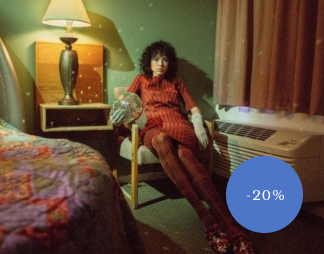
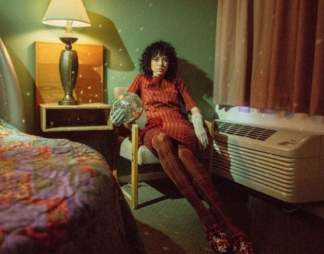
end

Changed region(s): [[0.679, 0.6063, 0.9568, 0.937]]

diff --git a/css/main.min.css b/css/main.min.css
@@ -1,1 +1,1 @@
-/*! normalize.css v8.0.1 | MIT License | github.com/necolas/normalize.css */html{line-height:1.15;-webkit-text-size-adjust:100%}body{margin:0}main{display:block}h1{font-size:2em;margin:.67em 0}hr{box-sizing:content-box;height:0;overflow:visible}pre{font-family:monospace,monospace;font-size:1em}a{background-color:rgba(0,0,0,0)}abbr[title]{border-bottom:none;text-decoration:underline;-webkit-text-decoration:underline dotted;text-decoration:underline dotted}b,strong{font-weight:bolder}code,kbd,samp{font-family:monospace,monospace;font-size:1em}small{font-size:80%}sub,sup{font-size:75%;line-height:0;position:relative;vertical-align:baseline}sub{bottom:-0.25em}sup{top:-0.5em}img{border-style:none}button,input,optgroup,select,textarea{font-family:inherit;font-size:100%;line-height:1.15;margin:0}button,input{overflow:visible}button,select{text-transform:none}button,[type=button],[type=reset],[type=submit]{-webkit-appearance:button}button::-moz-focus-inner,[type=button]::-moz-focus-inner,[type=reset]::-moz-focus-inner,[type=submit]::-moz-focus-inner{border-style:none;padding:0}button:-moz-focusring,[type=button]:-moz-focusring,[type=reset]:-moz-focusring,[type=submit]:-moz-focusring{outline:1px dotted ButtonText}fieldset{padding:.35em .75em .625em}legend{box-sizing:border-box;color:inherit;display:table;max-width:100%;padding:0;white-space:normal}progress{vertical-align:baseline}textarea{overflow:auto}[type=checkbox],[type=radio]{box-sizing:border-box;padding:0}[type=number]::-webkit-inner-spin-button,[type=number]::-webkit-outer-spin-button{height:auto}[type=search]{-webkit-appearance:textfield;outline-offset:-2px}[type=search]::-webkit-search-decoration{-webkit-appearance:none}::-webkit-file-upload-button{-webkit-appearance:button;font:inherit}details{display:block}summary{display:list-item}template{display:none}[hidden]{display:none}@font-face{font-family:"Orchidea pro";src:url("../font/Mint Type - Orchidea Pro Medium.otf")}@font-face{font-family:"Circle";src:url("../font/Mint Type - Orchidea Pro Medium.otf")}html{box-sizing:border-box;height:100%;scroll-behavior:smooth}*,*::before,*::after{box-sizing:inherit}body{display:flex;flex-direction:column;height:100%;padding:0;margin:0;overflow-x:hidden;font-family:"Orchidea pro";background-color:#fff}img{max-width:100%;height:auto}.container{max-width:1440px;width:100%;margin:0 auto}ul{list-style:none}a{text-decoration:none}.visually-hidden{position:absolute;width:1px;height:1px;margin:-1px;border:0;padding:0;clip:rect(0 0 0 0);overflow:hidden}.mollen__big-wrapper{background-image:url("/img/monnel-hero.png");background-repeat:no-repeat;background-size:cover;background-position:center center;width:100vw;height:1031px}.mollen__header-wrapper{display:flex;justify-content:space-between;align-items:center;padding:16px 40px}.mollen__header-btn{border:none;background-color:rgba(0,0,0,0);color:#fff;font-size:35px;cursor:pointer}.mollen__header-logo{margin-left:40px}.mollen__header-link{font-weight:500;font-size:14px;line-height:22px;letter-spacing:.1em;text-transform:uppercase;color:#72716e;margin-left:40px;transition:color .2s ease}.mollen__header-link:hover{color:#fff}.mollen__header-linkss{color:#fff;transition:color .2s ease}.mollen__header-linkss:hover{color:#72716e}.mollen__header-constructor{position:relative;top:5px;right:6px}.mollen__header-search{font-size:18px;position:relative;top:3px}.mollen__header-icons{display:flex;align-items:center}.mollen__header-carts{margin-left:122px}.mollen__header-carts-btn{border:none;background-color:rgba(0,0,0,0);cursor:pointer}.mollen__header-carts-spn{display:inline-block;width:40px;height:40px;border-radius:50%;text-align:center;padding-top:9px;background-color:#4e76c6}@media screen and (max-width: 895px){.mollen__header-link{margin-left:20px;font-size:10px}.mollen__header-logo{margin-left:20px}.mollen__header-carts{margin-left:50px}}.mollen__hero{margin-top:163px;margin-bottom:150px}.mollen__hero-wrapper{display:flex;justify-content:center;margin:0 auto;max-width:900px;width:100%;height:620px;position:relative}.mollen__hero-item{display:flex;position:absolute}.mollen__hero-item:nth-child(1){left:50px}.mollen__hero-item:nth-child(2){top:120px;right:430px}.mollen__hero-item:nth-child(3){top:300px;left:20px}.mollen__hero-item:nth-child(4){bottom:150px;right:0px}.mollen__hero-item:nth-child(5){bottom:0px;left:0px}.mollen__hero-round{width:60px;height:60px;background:rgba(236,234,231,.6980392157);opacity:.2;border-radius:60px;text-align:center;padding-top:20px}.mollen__hero-spn{display:inline-block;width:8px;height:8px;border-radius:50%;background-color:#fff}.mollen__hero-text{font-weight:500;font-size:20px;line-height:28px;letter-spacing:.1em;text-transform:uppercase;color:#fff;cursor:pointer;margin-left:25px;transition:color .2s ease}.mollen__hero-text:hover{color:rgba(236,234,231,.3098039216)}.hero__mollen-imgs{margin-top:80px;display:flex;justify-content:center}.hero__mollen-img{-webkit-animation-name:rounds;animation-name:rounds;-webkit-animation-duration:2s;animation-duration:2s;-webkit-animation-iteration-count:infinite;animation-iteration-count:infinite}@-webkit-keyframes rounds{0%{transform:rotate(50deg)}50%{transform:rotate(250deg)}100%{transform:rotate(50deg)}}@keyframes rounds{0%{transform:rotate(50deg)}50%{transform:rotate(250deg)}100%{transform:rotate(50deg)}}.mollen__menu{max-width:1440px;width:100%;height:1031px;background-color:#fff;transform:translateY(-2138px);border-radius:20px}.mollen__menu-wrapper{display:flex}.mollen__menu-aside{width:20%;border-right:1px solid #eceae7;height:1031px}.mollen__menu-close{border:none;background-color:rgba(0,0,0,0);font-size:40px;margin-left:27px;margin-top:23px;margin-bottom:121px;cursor:pointer}.mollen__menu-text{font-weight:300;font-size:18px;line-height:24px;color:#72716e;cursor:pointer;margin-left:42px;margin-bottom:62px;transition:color .2s ease}.mollen__menu-text:hover{color:#1e1e1e}.mollen__menu-item{margin-bottom:26px}.mollen__menu-link{font-weight:500;font-size:14px;line-height:22px;letter-spacing:.1em;text-transform:uppercase;color:#1e1e1e;transition:color .2s ease}.mollen__menu-link:hover{color:#72716e}.mollen__menu-lists{display:flex;position:relative;top:390px}.mollen__menu-items{margin-left:15px}.mollen__menu-items:nth-child(1){margin-left:0}.mollen__menu-links{color:#4e76c6}.mollen__main{width:80%;position:relative}.mollen__main-inp{width:100%;padding:20px 0;padding-left:20px;border:1px solid #eceae7;outline:none}.mollen__main-search{font-size:25px;right:20px;top:20px;cursor:pointer;position:absolute}.mollen__main-wrapper{margin-left:210px;margin-top:145px}.mollen__main-text{font-weight:300;font-size:18px;line-height:24px;color:#72716e;margin-left:35px;margin-bottom:50px}.mollen__main-item{margin-bottom:26px}.mollen__main-link{font-weight:500;font-size:40px;line-height:52px;letter-spacing:.08em;text-transform:uppercase;color:#1e1e1e;transition:color .2s ease}.mollen__main-link:hover{color:#4e76c6}.mollen__main-phones{margin-left:245px;position:relative;top:360px;display:flex;align-items:center;justify-content:space-between}.mollen__main-phone{font-weight:500;font-size:14px;line-height:22px;letter-spacing:.1em;text-transform:uppercase;color:#1e1e1e;transition:color .2s ease}.mollen__main-phone:hover{color:#4e76c6}.mollen__main-call{font-weight:500;font-size:14px;line-height:22px;letter-spacing:.1em;text-transform:uppercase;color:#4e76c6;transition:color .2s ease;cursor:pointer;margin-left:37px}.mollen__main-call:hover{color:#1e1e1e}.mollen__main-btn{border:none;background-color:#4e76c6;width:60px;height:60px;border-radius:50%;margin-right:60px;cursor:pointer}.show-open{transform:translateY(-987px);transition:all .4s ease}@media screen and (max-width: 1138px){.mollen__menu-lists{top:370px}}@media screen and (max-width: 1124px){.mollen__menu-lists{top:350px}}@media screen and (max-width: 1068px){.mollen__menu-lists{right:20px}}@media screen and (max-width: 1003px){.mollen__menu-lists{top:390px;right:30px}.mollen__menu-link{font-size:10px}.mollen__menu-items{margin-left:10px}}@media screen and (max-width: 916px){.mollen__main-link{font-size:30px}.mollen__main-phones{margin-left:100px}}@media screen and (max-width: 871px){.mollen__menu-lists{top:360px}}@media screen and (max-width: 862px){.mollen__menu-lists{top:370px}}@media screen and (max-width: 779px){.mollen__menu-lists{right:35px;top:350px}.mollen__menu-items{margin-left:5px}}@media screen and (max-width: 768px){.mollen__menu-lists{right:35px;top:320px}.mollen__main-link{font-size:25px}}.mollen__dataimg{margin-top:110px}.mollen__dataimg-list{overflow-x:hidden;margin-right:0px}.mollen__dataimg-item{cursor:pointer}.mollen__dataimg-img{-o-object-fit:cover;object-fit:cover}.mollen__dataimg-text{font-weight:500;font-size:14px;line-height:22px;letter-spacing:.1em;text-transform:uppercase;color:#1e1e1e}.mollen__dataimg-visibl{display:none}.mollen__complect{margin-top:242px}.mollen__complect-block{display:flex;justify-content:space-between}.mollen__complect-blocks{position:relative;justify-content:space-between;bottom:48px;right:2px;background:#f5f3f0}.mollen__complect-imgs{position:relative}.mollen__complect-img{max-width:719px;width:100%;height:884px}.mollen__complect-text{position:absolute;top:40px;left:40px;font-weight:500;max-width:477px;width:100%;font-size:40px;line-height:52px;letter-spacing:.08em;text-transform:uppercase;color:#fffffb}.mollen__complect-btn{border:none;position:absolute;left:40px;bottom:80px;padding:21px 30px 18px 60px;background-color:#fff;font-weight:500;font-size:14px;line-height:22px;letter-spacing:.1em;text-transform:uppercase;color:#222730;cursor:pointer;border-radius:60px;transition:all .2s ease}.mollen__complect-btn:hover{background-color:#222730;color:#fff}.mollen__complect-spn{width:9px;height:9px;border-radius:50%;display:inline-block;position:relative;right:20px;background-color:#bc5e53}.mollen__complect-lists{max-width:720px;width:100%}.mollen__complect-list{padding:0;display:flex}.mollen__complect-inner{display:flex;justify-content:space-between}.mollen__complect-item{max-width:360px;width:100%;position:relative;bottom:16px;padding:37px;border:1px solid #eceae7}.mollen__complect-items{position:relative;bottom:32px}.mollen__complect-texts{font-weight:300;font-size:14px;line-height:16px;color:#72716e}.mollen__complect-mebel{max-width:360px;width:100%;height:164px;-o-object-fit:contain;object-fit:contain}.mollen__complect-two{font-weight:500;font-size:14px;line-height:22px;text-align:center;letter-spacing:.1em;text-transform:uppercase;color:#1e1e1e}.mollen__complect-subtext{font-weight:300;font-size:14px;line-height:16px;text-align:center;color:#72716e}.mollen__complect-price{font-weight:500;font-size:14px;line-height:22px;text-align:center;letter-spacing:.1em;text-transform:uppercase;color:#4e76c6}.mollen__complect-girlimg{position:relative;bottom:80px;margin:0 auto;-o-object-fit:cover;object-fit:cover;display:flex;justify-content:center;-webkit-animation-name:rounds;animation-name:rounds;-webkit-animation-duration:3s;animation-duration:3s;-webkit-animation-iteration-count:infinite;animation-iteration-count:infinite}.mollen__complect-girlsimg{max-width:719px;width:100%;height:884px}@-webkit-keyframes roundss{0%{transform:rotate(50deg)}50%{transform:rotate(250deg)}100%{transform:rotate(50deg)}}@keyframes roundss{0%{transform:rotate(50deg)}50%{transform:rotate(250deg)}100%{transform:rotate(50deg)}}.catalog__title{font-size:40px;line-height:52px;letter-spacing:.08em;text-transform:uppercase;color:#1e1e1e;margin-top:40px;margin-left:40px;margin-bottom:110px}.catalog__list{display:flex}.catalog__item{margin-left:206px;display:flex;align-items:center}.catalog__item::before{content:"";display:inline-block;width:8px;height:8px;background-color:#1e1e1e;border-radius:50%;margin-right:15px}.catalog__item:nth-child(1){margin-left:0}.catalog__link{font-weight:500;font-size:14px;line-height:22px;text-align:center;letter-spacing:.1em;text-transform:uppercase;color:#1e1e1e}.catalog__des{margin-top:440px;display:flex;padding-left:40px}.catalog__text{font-family:"Circle";max-width:274px;width:100%;font-weight:300;font-size:14px;line-height:16px;color:#1e1e1e}.catalog__texts{margin-left:30px;margin-right:10px}@media screen and (max-width: 1345px){.catalog__item{margin-left:106px}}@media screen and (max-width: 1272px){.catalog__des{margin-top:420px}}@media screen and (max-width: 1157px){.catalog__des{margin-top:390px}}@media screen and (max-width: 996px){.catalog__des{margin-top:370px}}@media screen and (max-width: 967px){.mollen__complect-text{font-size:30px}.mollen__complect-btn{bottom:120px}.mollen__complect-item{padding:36px}}@media screen and (max-width: 983px){.mollen__complect-item{padding:30px}}@media screen and (max-width: 962px){.mollen__complect-item{padding:30px}}@media screen and (max-width: 933px){.mollen__complect-item{padding:26px}}@media screen and (max-width: 900px){.mollen__complect-block{flex-direction:column;margin:0 auto}.mollen__complect-img{width:718px;margin:0 auto;display:flex;justify-content:center}.mollen__complect-text{left:120px}.mollen__complect-btn{left:130px}.mollen__complect-girlsimg{width:800px;margin:0 auto;display:flex;justify-content:center}.mollen__complect-lists{margin:0 auto}.mollen__complect-item{padding:26px}.catalog__title{text-align:center}.catalog__list{margin:0 auto;justify-content:center}.catalog__item{margin-left:80px}.catalog__des{text-align:center;margin:0 auto;justify-content:center}}@media screen and (max-width: 800px){.catalog__item{margin-left:50px}}@media screen and (max-width: 768px){.catalog__des{margin-top:200px}}.mollen__imgs{position:relative;bottom:62px;margin-bottom:149px}.mollen__imgs-list{margin-right:10px}.mollen__imgs-visbl{display:none}@media screen and (max-width: 991px){.mollen__imgs-item{margin-bottom:16px}}.footer{border-top:1px solid #eceae7;padding-top:60px;padding-left:40px}.footer__wrapper{display:flex;justify-content:space-between;overflow-x:hidden}.footer__logo{margin-bottom:76px;margin-top:18px}.footer__text{font-weight:300;font-size:18px;line-height:24px;color:#72716e}.footer__item{margin-bottom:22px}.footer__link{font-weight:300;font-size:18px;line-height:24px;color:#72716e;transition:color .2s ease}.footer__link:hover{color:#4e76c6}.footer__social-list{display:flex;position:relative;right:20px;top:61px}.footer__social-phone{font-weight:500;font-size:20px;line-height:28px;text-align:right;letter-spacing:.1em;text-transform:uppercase;color:#1e1e1e}.footer__social-call{font-weight:300;font-size:18px;line-height:24px;color:#4e76c6;margin-left:40px}@media screen and (max-width: 866px){.footer__logo{width:90px;height:53px;margin-bottom:50px;margin-top:5px}.footer__text{font-size:16px}.footer__link{font-size:16px}.footer__social-phone{font-size:16px}.footer__social-call{font-size:14px;margin-left:30px}}/*# sourceMappingURL=main.min.css.map */
+/*! normalize.css v8.0.1 | MIT License | github.com/necolas/normalize.css */html{line-height:1.15;-webkit-text-size-adjust:100%}body{margin:0}main{display:block}h1{font-size:2em;margin:.67em 0}hr{box-sizing:content-box;height:0;overflow:visible}pre{font-family:monospace,monospace;font-size:1em}a{background-color:rgba(0,0,0,0)}abbr[title]{border-bottom:none;text-decoration:underline;-webkit-text-decoration:underline dotted;text-decoration:underline dotted}b,strong{font-weight:bolder}code,kbd,samp{font-family:monospace,monospace;font-size:1em}small{font-size:80%}sub,sup{font-size:75%;line-height:0;position:relative;vertical-align:baseline}sub{bottom:-0.25em}sup{top:-0.5em}img{border-style:none}button,input,optgroup,select,textarea{font-family:inherit;font-size:100%;line-height:1.15;margin:0}button,input{overflow:visible}button,select{text-transform:none}button,[type=button],[type=reset],[type=submit]{-webkit-appearance:button}button::-moz-focus-inner,[type=button]::-moz-focus-inner,[type=reset]::-moz-focus-inner,[type=submit]::-moz-focus-inner{border-style:none;padding:0}button:-moz-focusring,[type=button]:-moz-focusring,[type=reset]:-moz-focusring,[type=submit]:-moz-focusring{outline:1px dotted ButtonText}fieldset{padding:.35em .75em .625em}legend{box-sizing:border-box;color:inherit;display:table;max-width:100%;padding:0;white-space:normal}progress{vertical-align:baseline}textarea{overflow:auto}[type=checkbox],[type=radio]{box-sizing:border-box;padding:0}[type=number]::-webkit-inner-spin-button,[type=number]::-webkit-outer-spin-button{height:auto}[type=search]{-webkit-appearance:textfield;outline-offset:-2px}[type=search]::-webkit-search-decoration{-webkit-appearance:none}::-webkit-file-upload-button{-webkit-appearance:button;font:inherit}details{display:block}summary{display:list-item}template{display:none}[hidden]{display:none}@font-face{font-family:"Orchidea pro";src:url("../font/Mint Type - Orchidea Pro Medium.otf")}@font-face{font-family:"Circle";src:url("../font/Mint Type - Orchidea Pro Medium.otf")}html{box-sizing:border-box;height:100%;scroll-behavior:smooth}*,*::before,*::after{box-sizing:inherit}body{display:flex;flex-direction:column;height:100%;padding:0;margin:0;overflow-x:hidden;font-family:"Orchidea pro";background-color:#fff}img{max-width:100%;height:auto}.container{max-width:1440px;width:100%;margin:0 auto}ul{list-style:none}a{text-decoration:none}.visually-hidden{position:absolute;width:1px;height:1px;margin:-1px;border:0;padding:0;clip:rect(0 0 0 0);overflow:hidden}.mollen__big-wrapper{background-image:url("/img/monnel-hero.png");background-repeat:no-repeat;background-size:cover;background-position:center center;width:100vw;height:1031px}.mollen__header-wrapper{display:flex;justify-content:space-between;align-items:center;padding:16px 40px}.mollen__header-btn{border:none;background-color:rgba(0,0,0,0);color:#fff;font-size:35px;cursor:pointer;position:relative;bottom:5px}.mollen__header-logo{margin-left:40px}.mollen__header-link{font-weight:500;font-size:14px;line-height:22px;letter-spacing:.1em;text-transform:uppercase;color:#72716e;margin-left:40px;transition:color .2s ease}.mollen__header-link:hover{color:#fff}.mollen__header-linkss{color:#fff;transition:color .2s ease}.mollen__header-linkss:hover{color:#72716e}.mollen__header-constructor{position:relative;top:5px;right:6px}.mollen__header-search{font-size:18px;position:relative;top:3px}.mollen__header-icons{display:flex;align-items:center}.mollen__header-carts{margin-left:122px}.mollen__header-carts-btn{border:none;background-color:rgba(0,0,0,0);cursor:pointer}.mollen__header-carts-spn{display:inline-block;width:40px;height:40px;border-radius:50%;text-align:center;padding-top:9px;background-color:#4e76c6}@media screen and (max-width: 895px){.mollen__header-link{margin-left:20px;font-size:10px}.mollen__header-logo{margin-left:20px}.mollen__header-carts{margin-left:50px}}.mollen__hero{margin-top:163px;margin-bottom:150px}.mollen__hero-wrapper{display:flex;justify-content:center;margin:0 auto;max-width:900px;width:100%;height:620px;position:relative}.mollen__hero-item{display:flex;position:absolute}.mollen__hero-item:nth-child(1){left:50px}.mollen__hero-item:nth-child(2){top:120px;right:430px}.mollen__hero-item:nth-child(3){top:300px;left:20px}.mollen__hero-item:nth-child(4){bottom:150px;right:0px}.mollen__hero-item:nth-child(5){bottom:0px;left:0px}.mollen__hero-round{width:60px;height:60px;background:rgba(236,234,231,.6980392157);opacity:.2;border-radius:60px;text-align:center;padding-top:20px}.mollen__hero-spn{display:inline-block;width:8px;height:8px;border-radius:50%;background-color:#fff}.mollen__hero-text{font-weight:500;font-size:20px;line-height:28px;letter-spacing:.1em;text-transform:uppercase;color:#fff;cursor:pointer;margin-left:25px;transition:color .2s ease}.mollen__hero-text:hover{color:rgba(236,234,231,.3098039216)}.hero__mollen-imgs{margin-top:80px;display:flex;justify-content:center}.hero__mollen-img{-webkit-animation-name:rounds;animation-name:rounds;-webkit-animation-duration:2s;animation-duration:2s;-webkit-animation-iteration-count:infinite;animation-iteration-count:infinite}@-webkit-keyframes rounds{0%{transform:rotate(50deg)}50%{transform:rotate(250deg)}100%{transform:rotate(50deg)}}@keyframes rounds{0%{transform:rotate(50deg)}50%{transform:rotate(250deg)}100%{transform:rotate(50deg)}}.mollen__menu{max-width:1440px;width:100%;height:1031px;background-color:#fff;transform:translateY(-2138px);border-radius:20px}.mollen__menu-wrapper{display:flex}.mollen__menu-aside{width:20%;border-right:1px solid #eceae7;height:1031px}.mollen__menu-close{border:none;background-color:rgba(0,0,0,0);font-size:40px;margin-left:27px;margin-top:23px;margin-bottom:121px;cursor:pointer}.mollen__menu-text{font-weight:300;font-size:18px;line-height:24px;color:#72716e;cursor:pointer;margin-left:42px;margin-bottom:62px;transition:color .2s ease}.mollen__menu-text:hover{color:#1e1e1e}.mollen__menu-item{margin-bottom:26px}.mollen__menu-link{font-weight:500;font-size:14px;line-height:22px;letter-spacing:.1em;text-transform:uppercase;color:#1e1e1e;transition:color .2s ease}.mollen__menu-link:hover{color:#72716e}.mollen__menu-lists{display:flex;position:relative;top:390px}.mollen__menu-items{margin-left:15px}.mollen__menu-items:nth-child(1){margin-left:0}.mollen__menu-links{color:#4e76c6}.mollen__main{width:80%;position:relative}.mollen__main-inp{width:100%;padding:20px 0;padding-left:20px;border:1px solid #eceae7;outline:none}.mollen__main-search{font-size:25px;right:20px;top:20px;cursor:pointer;position:absolute}.mollen__main-wrapper{margin-left:210px;margin-top:145px}.mollen__main-text{font-weight:300;font-size:18px;line-height:24px;color:#72716e;margin-left:35px;margin-bottom:50px}.mollen__main-item{margin-bottom:26px}.mollen__main-link{font-weight:500;font-size:40px;line-height:52px;letter-spacing:.08em;text-transform:uppercase;color:#1e1e1e;transition:color .2s ease}.mollen__main-link:hover{color:#4e76c6}.mollen__main-phones{margin-left:245px;position:relative;top:360px;display:flex;align-items:center;justify-content:space-between}.mollen__main-phone{font-weight:500;font-size:14px;line-height:22px;letter-spacing:.1em;text-transform:uppercase;color:#1e1e1e;transition:color .2s ease}.mollen__main-phone:hover{color:#4e76c6}.mollen__main-call{font-weight:500;font-size:14px;line-height:22px;letter-spacing:.1em;text-transform:uppercase;color:#4e76c6;transition:color .2s ease;cursor:pointer;margin-left:37px}.mollen__main-call:hover{color:#1e1e1e}.mollen__main-btn{border:none;background-color:#4e76c6;width:60px;height:60px;border-radius:50%;margin-right:60px;cursor:pointer}.show-open{transform:translateY(-987px);transition:all .4s ease}@media screen and (max-width: 1138px){.mollen__menu-lists{top:370px}}@media screen and (max-width: 1124px){.mollen__menu-lists{top:350px}}@media screen and (max-width: 1068px){.mollen__menu-lists{right:20px}}@media screen and (max-width: 1003px){.mollen__menu-lists{top:390px;right:30px}.mollen__menu-link{font-size:10px}.mollen__menu-items{margin-left:10px}}@media screen and (max-width: 916px){.mollen__main-link{font-size:30px}.mollen__main-phones{margin-left:100px}}@media screen and (max-width: 871px){.mollen__menu-lists{top:360px}}@media screen and (max-width: 862px){.mollen__menu-lists{top:370px}}@media screen and (max-width: 779px){.mollen__menu-lists{right:35px;top:350px}.mollen__menu-items{margin-left:5px}}@media screen and (max-width: 768px){.mollen__menu-lists{right:35px;top:320px}.mollen__main-link{font-size:25px}}.mollen__dataimg{margin-top:110px}.mollen__dataimg-list{overflow-x:hidden;margin-right:0px}.mollen__dataimg-item{position:relative}.mollen__dataimg-img{-o-object-fit:cover;object-fit:cover}.mollen__dataimg-text{font-weight:500;font-size:14px;line-height:22px;letter-spacing:.1em;text-transform:uppercase;color:#1e1e1e}.mollen__dataimg-visibl{display:none}.mollen__dataimg-spn{position:absolute;top:26px;left:45px;padding:6px 13px;background:#4e76c6;border-radius:56px;font-style:normal;font-weight:400;font-size:16px;line-height:24px;border:1px solid rgba(0,0,0,0);color:#fff;cursor:pointer;transition:all .2s ease-in}.mollen__dataimg-spn:hover{color:#4e76c6;background-color:#fff;border-color:#4e76c6}.mollen__dataimg-spnn{position:absolute;bottom:122px;left:30px;padding:6px 13px;background:#4e76c6;border-radius:56px;font-style:normal;font-weight:400;font-size:16px;line-height:24px;border:1px solid rgba(0,0,0,0);color:#fff;cursor:pointer;transition:all .2s ease-in}.mollen__dataimg-spnn:hover{color:#4e76c6;background-color:#fff;border-color:#4e76c6}.mollen__dataimg-spns{position:absolute;bottom:252px;right:30px;width:77px;height:77px;text-align:center;padding-top:25px;border-radius:50%;font-style:normal;font-weight:400;font-size:16px;line-height:24px;border:1px solid rgba(0,0,0,0);color:#fff;background-color:#4e76c6;cursor:pointer;transition:all .2s ease-in}.mollen__dataimg-spns:hover{color:#4e76c6;background-color:#fff;border-color:#4e76c6}.mollen__complect{margin-top:242px}.mollen__complect-block{display:flex;justify-content:space-between}.mollen__complect-blocks{position:relative;justify-content:space-between;bottom:48px;right:2px;background:#f5f3f0}.mollen__complect-imgs{position:relative}.mollen__complect-img{max-width:719px;width:100%;height:884px}.mollen__complect-text{position:absolute;top:40px;left:40px;font-weight:500;max-width:477px;width:100%;font-size:40px;line-height:52px;letter-spacing:.08em;text-transform:uppercase;color:#fffffb}.mollen__complect-btn{border:none;position:absolute;left:40px;bottom:80px;padding:21px 30px 18px 60px;background-color:#fff;font-weight:500;font-size:14px;line-height:22px;letter-spacing:.1em;text-transform:uppercase;color:#222730;cursor:pointer;border-radius:60px;transition:all .2s ease}.mollen__complect-btn:hover{background-color:#4e76c6;color:#fff}.mollen__complect-spn{width:9px;height:9px;border-radius:50%;display:inline-block;position:relative;right:20px;background-color:#bc5e53}.mollen__complect-lists{max-width:720px;width:100%}.mollen__complect-list{padding:0;display:flex}.mollen__complect-inner{display:flex;justify-content:space-between}.mollen__complect-item{max-width:360px;width:100%;position:relative;bottom:16px;padding:37px;border:1px solid #eceae7}.mollen__complect-items{position:relative;bottom:32px}.mollen__complect-texts{font-weight:300;font-size:14px;line-height:16px;color:#72716e}.mollen__complect-mebel{max-width:360px;width:100%;height:164px;-o-object-fit:contain;object-fit:contain}.mollen__complect-two{font-weight:500;font-size:14px;line-height:22px;text-align:center;letter-spacing:.1em;text-transform:uppercase;color:#1e1e1e}.mollen__complect-subtext{font-weight:300;font-size:14px;line-height:16px;text-align:center;color:#72716e}.mollen__complect-price{font-weight:500;font-size:14px;line-height:22px;text-align:center;letter-spacing:.1em;text-transform:uppercase;color:#4e76c6}.mollen__complect-girlimg{position:relative;bottom:80px;margin:0 auto;-o-object-fit:cover;object-fit:cover;display:flex;justify-content:center;-webkit-animation-name:rounds;animation-name:rounds;-webkit-animation-duration:3s;animation-duration:3s;-webkit-animation-iteration-count:infinite;animation-iteration-count:infinite}.mollen__complect-girlsimg{max-width:719px;width:100%;height:884px}.mollen__complect-frover{-webkit-animation-name:rounds;animation-name:rounds;-webkit-animation-duration:3s;animation-duration:3s;-webkit-animation-iteration-count:infinite;animation-iteration-count:infinite}@-webkit-keyframes roundss{0%{transform:rotate(50deg)}50%{transform:rotate(250deg)}100%{transform:rotate(50deg)}}@keyframes roundss{0%{transform:rotate(50deg)}50%{transform:rotate(250deg)}100%{transform:rotate(50deg)}}.catalog__title{font-size:40px;line-height:52px;letter-spacing:.08em;text-transform:uppercase;color:#1e1e1e;margin-top:40px;margin-left:40px;margin-bottom:110px}.catalog__list{display:flex}.catalog__item{margin-left:206px;display:flex;align-items:center}.catalog__item::before{content:"";display:inline-block;width:8px;height:8px;background-color:#1e1e1e;border-radius:50%;margin-right:15px}.catalog__item:nth-child(1){margin-left:0}.catalog__link{font-weight:500;font-size:14px;line-height:22px;text-align:center;letter-spacing:.1em;text-transform:uppercase;color:#1e1e1e}.catalog__des{margin-top:440px;display:flex;padding-left:40px}.catalog__text{font-family:"Circle";max-width:274px;width:100%;font-weight:300;font-size:14px;line-height:16px;color:#1e1e1e}.catalog__texts{margin-left:30px;margin-right:10px}@media screen and (max-width: 1345px){.catalog__item{margin-left:106px}}@media screen and (max-width: 1272px){.catalog__des{margin-top:420px}}@media screen and (max-width: 1157px){.catalog__des{margin-top:390px}}@media screen and (max-width: 996px){.catalog__des{margin-top:370px}}@media screen and (max-width: 967px){.mollen__complect-text{font-size:30px}.mollen__complect-btn{bottom:120px}.mollen__complect-item{padding:36px}}@media screen and (max-width: 983px){.mollen__complect-item{padding:30px}}@media screen and (max-width: 962px){.mollen__complect-item{padding:30px}}@media screen and (max-width: 933px){.mollen__complect-item{padding:26px}}@media screen and (max-width: 900px){.mollen__complect-block{flex-direction:column;margin:0 auto}.mollen__complect-img{width:718px;margin:0 auto;display:flex;justify-content:center}.mollen__complect-text{left:120px}.mollen__complect-btn{left:130px}.mollen__complect-girlsimg{width:800px;margin:0 auto;display:flex;justify-content:center}.mollen__complect-lists{margin:0 auto}.mollen__complect-item{padding:26px}.catalog__title{text-align:center}.catalog__list{margin:0 auto;justify-content:center}.catalog__item{margin-left:80px}.catalog__des{text-align:center;margin:0 auto;justify-content:center}}@media screen and (max-width: 800px){.catalog__item{margin-left:50px}}@media screen and (max-width: 768px){.catalog__des{margin-top:200px}}.mollen__imgs{position:relative;bottom:62px;margin-bottom:149px}.mollen__imgs-list{margin-right:10px}.mollen__imgs-visbl{display:none}@media screen and (max-width: 991px){.mollen__imgs-item{margin-bottom:16px}}.footer{border-top:1px solid #eceae7;padding-top:60px;padding-left:40px}.footer__wrapper{display:flex;justify-content:space-between;overflow-x:hidden}.footer__logo{margin-bottom:76px;margin-top:18px}.footer__text{font-weight:300;font-size:18px;line-height:24px;color:#72716e}.footer__item{margin-bottom:22px}.footer__link{font-weight:300;font-size:18px;line-height:24px;color:#72716e;transition:color .2s ease}.footer__link:hover{color:#4e76c6}.footer__social-list{display:flex;position:relative;right:20px;top:61px}.footer__social-phone{font-weight:500;font-size:20px;line-height:28px;text-align:right;letter-spacing:.1em;text-transform:uppercase;color:#1e1e1e}.footer__social-call{font-weight:300;font-size:18px;line-height:24px;color:#4e76c6;margin-left:40px}@media screen and (max-width: 866px){.footer__logo{width:90px;height:53px;margin-bottom:50px;margin-top:5px}.footer__text{font-size:16px}.footer__link{font-size:16px}.footer__social-phone{font-size:16px}.footer__social-call{font-size:14px;margin-left:30px}}/*# sourceMappingURL=main.min.css.map */

diff --git a/index.html b/index.html
@@ -148,18 +148,22 @@
               <li class="mollen__dataimg-item col-md-3 col-sm-6">
                 <img class="mollen__dataimg-img" src="img/mollen-dataimg/data-img1.png" alt="data-img1">
                 <p class="mollen__dataimg-text">В незапамятные времена наши предки-славяне называли </p>
+                <span class="mollen__dataimg-spn">для детей</span>            
               </li>
               <li class="mollen__dataimg-item col-md-3 col-sm-6">
                 <img class="mollen__dataimg-img" src="img/mollen-dataimg/data-img2.png" alt="data-img1">
                 <p class="mollen__dataimg-text">В незапамятные времена наши предки-славяне называли </p>
+                <span class="mollen__dataimg-spnn">для детей</span>      
               </li>
               <li class="mollen__dataimg-item col-md-3 col-sm-6">
                 <img class="mollen__dataimg-img" src="img/mollen-dataimg/data-img3.png" alt="data-img1">
                 <p class="mollen__dataimg-text">В незапамятные времена наши предки-славяне называли  </p>
+                <span class="mollen__dataimg-spns">-20%</span>
               </li>
               <li class="mollen__dataimg-item col-md-3 col-sm-6">
                 <img class="mollen__dataimg-img" src="img/mollen-dataimg/data-img4.png" alt="data-img1">
                 <p class="mollen__dataimg-text">В незапамятные времена наши предки-славяне называли </p>
+                <span class="mollen__dataimg-spn">для дома</span>
               </li>
             </ul>
         </div>
@@ -179,7 +183,7 @@
                       <li class="mollen__complect-item">
                         <div class="mollen__complect-inner">
                           <p class="mollen__complect-texts">комплект <br>Mollen</p>
-                          <img src="img/mollen-complect/forever.svg" alt="forever">
+                          <img class="mollen__complect-frover" src="img/mollen-complect/forever.svg" alt="forever">
                         </div>
                         <img class="mollen__complect-mebel" src="img/mollen-complect/complect2.png" alt="">
                           <p class="mollen__complect-two">название комплекта в две строки</p>
@@ -189,7 +193,7 @@
                       <li class="mollen__complect-item">
                         <div class="mollen__complect-inner">
                           <p class="mollen__complect-texts">комплект <br>Mollen</p>
-                          <img src="img/mollen-complect/forever.svg" alt="forever">
+                          <img class="mollen__complect-frover" src="img/mollen-complect/forever.svg" alt="forever">
                         </div>
                         <img class="mollen__complect-mebel" src="img/mollen-complect/complect2.png" alt="">
                           <p class="mollen__complect-two">название комплекта в две строки</p>
@@ -201,7 +205,7 @@
                       <li class="mollen__complect-item mollen__complect-items">
                         <div class="mollen__complect-inner">
                           <p class="mollen__complect-texts">комплект <br>Mollen</p>
-                          <img src="img/mollen-complect/forever.svg" alt="forever">
+                          <img class="mollen__complect-frover" src="img/mollen-complect/forever.svg" alt="forever">
                         </div>
                         <img class="mollen__complect-mebel" src="img/mollen-complect/complect2.png" alt="">
                           <p class="mollen__complect-two">название комплекта в две строки</p>
@@ -211,7 +215,7 @@
                       <li class="mollen__complect-item mollen__complect-items">
                         <div class="mollen__complect-inner">
                           <p class="mollen__complect-texts">комплект <br>Mollen</p>
-                          <img src="img/mollen-complect/forever.svg" alt="forever">
+                          <img class="mollen__complect-frover" src="img/mollen-complect/forever.svg" alt="forever">
                         </div>
                         <img class="mollen__complect-mebel" src="img/mollen-complect/complect2.png" alt="">
                           <p class="mollen__complect-two">название комплекта в две строки</p>
@@ -270,7 +274,9 @@
     <div class="footer__container container">
       <div class="footer__wrapper ">
         <div class="footer__logos">
-          <img class="footer__logo" src="img/footer/footerr-logo.svg" alt="footer-logos">
+          <a href="index.html">
+            <img class="footer__logo" src="img/footer/footerr-logo.svg" alt="footer-logos">
+          </a>
           <p class="footer__text">2021 © Mollen.<br>Все права защищены</p>
         </div>
         <ul class="footer__list">

diff --git a/css/main.css b/css/main.css
@@ -423,6 +423,8 @@ a {
   color: #fff;
   font-size: 35px;
   cursor: pointer;
+  position: relative;
+  bottom: 5px;
 }
 .mollen__header-logo {
   margin-left: 40px;
@@ -830,7 +832,7 @@ a {
   margin-right: 0px;
 }
 .mollen__dataimg-item {
-  cursor: pointer;
+  position: relative;
 }
 .mollen__dataimg-img {
   -o-object-fit: cover;
@@ -846,6 +848,72 @@ a {
 }
 .mollen__dataimg-visibl {
   display: none;
+}
+.mollen__dataimg-spn {
+  position: absolute;
+  top: 26px;
+  left: 45px;
+  padding: 6px 13px;
+  background: #4E76C6;
+  border-radius: 56px;
+  font-style: normal;
+  font-weight: 400;
+  font-size: 16px;
+  line-height: 24px;
+  border: 1px solid transparent;
+  color: #fff;
+  cursor: pointer;
+  transition: all 0.2s ease-in;
+}
+.mollen__dataimg-spn:hover {
+  color: #4E76C6;
+  background-color: #fff;
+  border-color: #4E76C6;
+}
+.mollen__dataimg-spnn {
+  position: absolute;
+  bottom: 122px;
+  left: 30px;
+  padding: 6px 13px;
+  background: #4E76C6;
+  border-radius: 56px;
+  font-style: normal;
+  font-weight: 400;
+  font-size: 16px;
+  line-height: 24px;
+  border: 1px solid transparent;
+  color: #fff;
+  cursor: pointer;
+  transition: all 0.2s ease-in;
+}
+.mollen__dataimg-spnn:hover {
+  color: #4E76C6;
+  background-color: #fff;
+  border-color: #4E76C6;
+}
+.mollen__dataimg-spns {
+  position: absolute;
+  bottom: 252px;
+  right: 30px;
+  width: 77px;
+  height: 77px;
+  text-align: center;
+  padding-top: 25px;
+  border-radius: 50%;
+  font-style: normal;
+  font-weight: 400;
+  font-size: 16px;
+  line-height: 24px;
+  border: 1px solid transparent;
+  color: #fff;
+  background-color: #4E76C6;
+  cursor: pointer;
+  transition: all 0.2s ease-in;
+}
+.mollen__dataimg-spns:hover {
+  color: #4E76C6;
+  background-color: #fff;
+  border-color: #4E76C6;
 }
 
 .mollen__complect {
@@ -901,7 +969,7 @@ a {
   transition: all 0.2s ease;
 }
 .mollen__complect-btn:hover {
-  background-color: #222730;
+  background-color: #4E76C6;
   color: #fff;
 }
 .mollen__complect-spn {
@@ -994,6 +1062,14 @@ a {
   max-width: 719px;
   width: 100%;
   height: 884px;
+}
+.mollen__complect-frover {
+  -webkit-animation-name: rounds;
+          animation-name: rounds;
+  -webkit-animation-duration: 3s;
+          animation-duration: 3s;
+  -webkit-animation-iteration-count: infinite;
+          animation-iteration-count: infinite;
 }
 
 @-webkit-keyframes roundss {

diff --git a/scss/blocks/_dataimg.scss b/scss/blocks/_dataimg.scss
@@ -5,7 +5,8 @@
     margin-right: 0px;
   }
   &-item {
-    cursor: pointer;
+    // cursor: pointer;
+    position: relative;
   }
   &-img {
     object-fit: cover;
@@ -20,5 +21,74 @@
   }
   &-visibl {
     display: none;
+  }
+  &-spn {
+    position: absolute;
+    top: 26px;
+    left: 45px;
+    padding: 6px 13px;
+    background: $color-blue;
+    border-radius: 56px;
+    // font-family: 'Circle';
+    font-style: normal;
+    font-weight: 400;
+    font-size: 16px;
+    line-height: 24px;  
+    border: 1px solid transparent;
+    color: #fff;
+    cursor: pointer;
+    transition: all 0.2s ease-in;
+    &:hover {
+      color: $color-blue;
+      background-color: #fff;
+      border-color: $color-blue;
+    }
+  }
+  &-spnn {
+    position: absolute;
+    bottom: 122px;
+    left: 30px;
+    padding: 6px 13px;
+    background: $color-blue;
+    border-radius: 56px;
+    // font-family: 'Circle';
+    font-style: normal;
+    font-weight: 400;
+    font-size: 16px;
+    line-height: 24px;  
+    border: 1px solid transparent;
+    color: #fff;
+    cursor: pointer;
+    transition: all 0.2s ease-in;
+    &:hover {
+      color: $color-blue;
+      background-color: #fff;
+      border-color: $color-blue;
+    }
+  }
+  &-spns {
+    position: absolute;
+    bottom: 252px;
+    right: 30px;
+    width: 77px;
+    height: 77px;
+    // font-family: 'Circle';
+    text-align: center;
+    padding-top: 25px;
+    border-radius: 50%;
+    font-style: normal;
+    font-weight: 400;
+    font-size: 16px;
+    line-height: 24px;  
+    border: 1px solid transparent;
+    color: #fff;
+    background-color: $color-blue;
+    cursor: pointer;
+    transition: all 0.2s ease-in;
+    &:hover {
+      color: $color-blue;
+      background-color: #fff;
+      border-color: $color-blue;
+    }
   }
 }

diff --git a/scss/blocks/_complect.scss b/scss/blocks/_complect.scss
@@ -49,7 +49,7 @@
     border-radius: 60px;
     transition: all 0.2s ease;
     &:hover {
-      background-color: #222730;
+      background-color: $color-blue;
       color: #fff;
     }
   }
@@ -138,7 +138,11 @@
     max-width: 719px;
     width: 100%;
     height: 884px;
-    // margin-left: 13px;
+  }
+  &-frover {
+    animation-name: rounds;
+    animation-duration: 3s;
+    animation-iteration-count: infinite;
   }
 }
 @keyframes roundss {

diff --git a/scss/blocks/_header.scss b/scss/blocks/_header.scss
@@ -11,6 +11,8 @@
     color: #fff;
     font-size: 35px;
     cursor: pointer;
+    position: relative;
+    bottom: 5px;
   }
   &-logo {
     margin-left: 40px;
